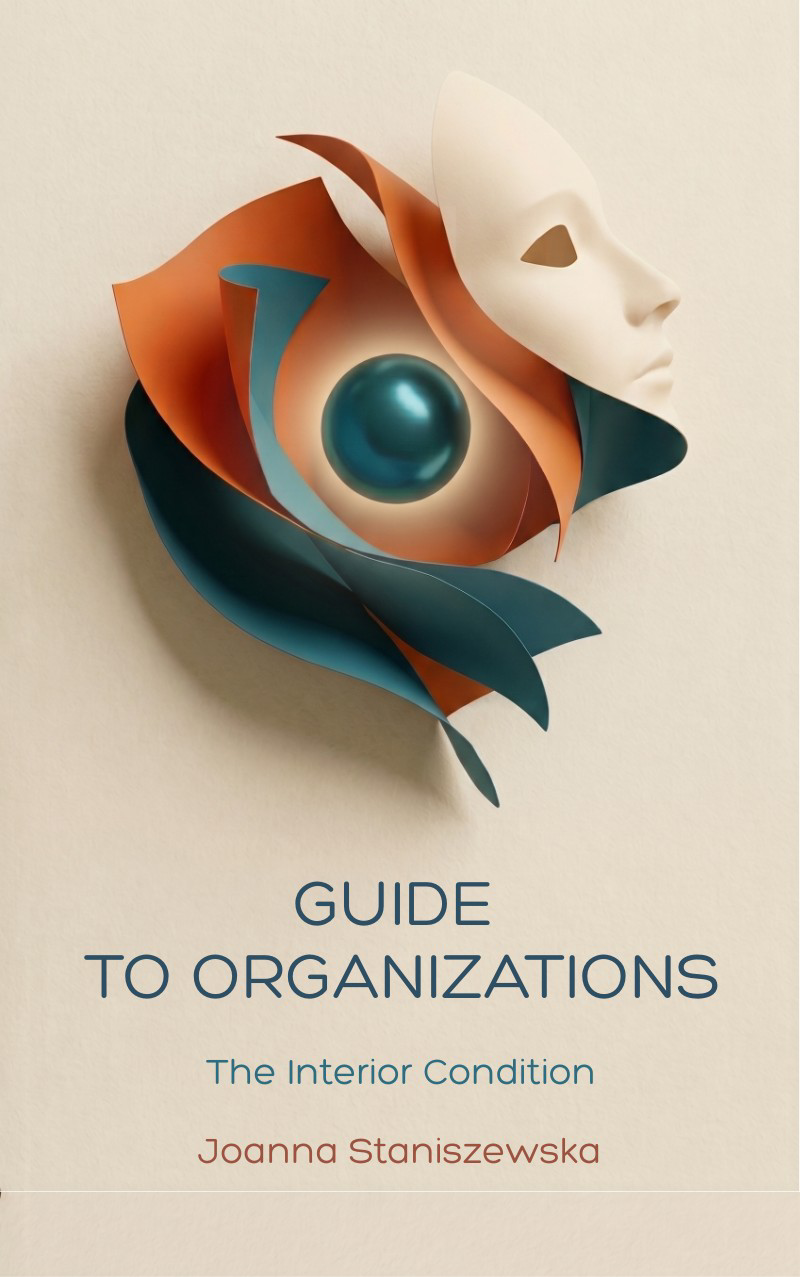
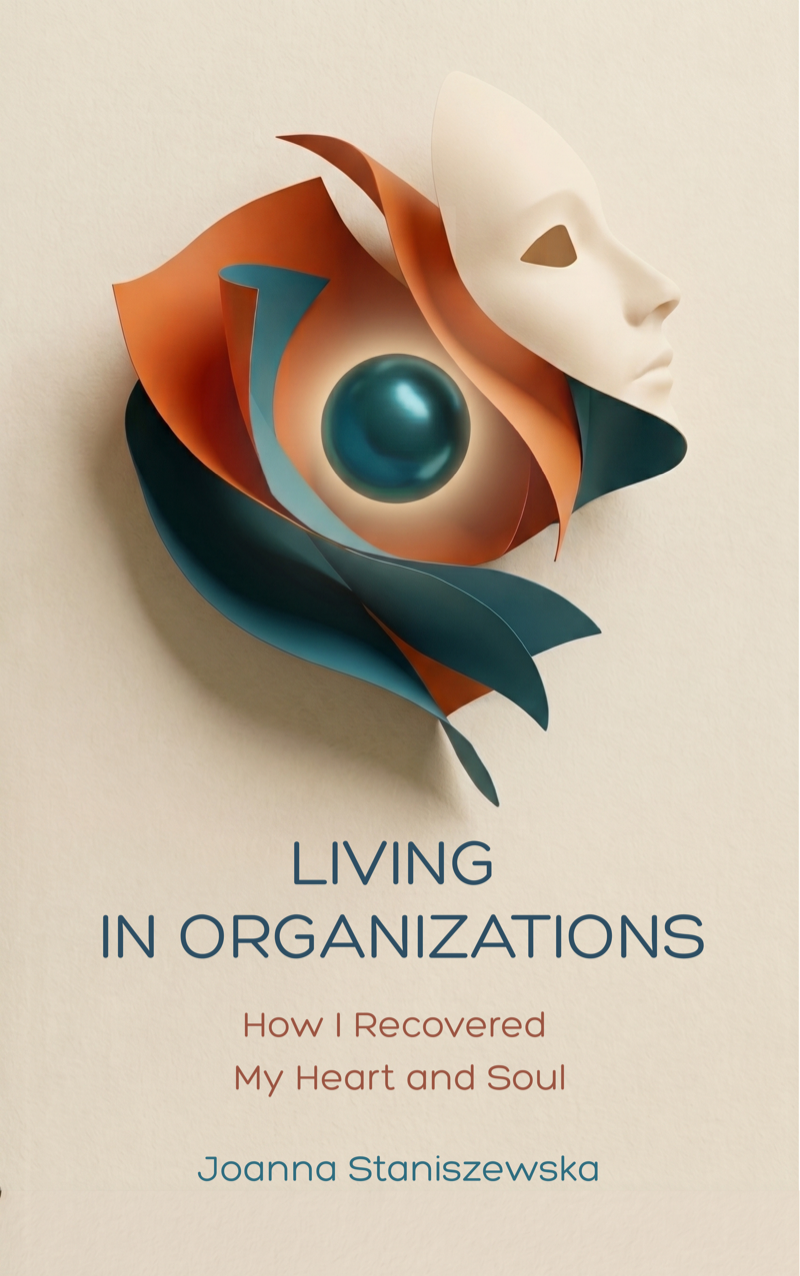
Retitle site to Living in Organizations + new cover
New title/subtitle across hero, book section, brand specimens.
Publisher "Guide to Organizations Press" linked to guidetoorganizations.pub.
Fix form redirect typo (guidestoorganizations -> guidetoorganizations).
New front cover image.

Changed region(s): [[0.125, 0.6418, 0.9062, 0.8558], [0.25, 0.8864, 0.75, 0.9475]]

diff --git a/index.html b/index.html
@@ -402,16 +402,17 @@
     <div class="book-inner">
 
       <div class="book-cover-wrapper">
-        <img src="book-cover.png" alt="Guide to Organizations — The Interior Condition" class="book-cover-img" />
+        <img src="book-cover.png" alt="Living in Organizations — How I Recovered My Heart and Soul" class="book-cover-img" />
       </div>
 
       <div class="book-content">
         <span class="badge-pill">Coming Soon</span>
 
         <h2 class="book-title">
-          <em>Guide<br>to Organizations</em>
+          <em>Living in<br>Organizations</em>
         </h2>
-        <p class="book-subtitle">The Interior Condition</p>
+        <p class="book-subtitle">How I Recovered My Heart and Soul</p>
+        <p class="book-publisher"><a href="https://guidetoorganizations.pub" target="_blank" rel="noopener">Guide to Organizations Press</a></p>
 
         <p class="book-desc">
           A map for leaders who want to understand what their organizations
@@ -473,7 +474,7 @@
     </div>
 
     <form action="https://formspree.io/f/xdennyqb" method="POST" class="contact-form">
-      <input type="hidden" name="_next" value="https://guidestoorganizations.pub/?sent=1" />
+      <input type="hidden" name="_next" value="https://guidetoorganizations.pub/?sent=1" />
       <div class="contact-form-row">
         <label for="cf-name">Name</label>
         <input type="text" id="cf-name" name="name" placeholder="Your name" required autocomplete="name" />

diff --git a/brand.html b/brand.html
@@ -633,11 +633,11 @@
 
         <div class="type-row">
           <span class="type-size-label">Display / 48px</span>
-          <span class="type-sample-serif" style="font-size: 3rem; font-weight: 300; line-height: 1.1; color: var(--text);">Guide to Organizations</span>
+          <span class="type-sample-serif" style="font-size: 3rem; font-weight: 300; line-height: 1.1; color: var(--text);">Living in Organizations</span>
         </div>
         <div class="type-row">
           <span class="type-size-label">H1 / 32px</span>
-          <span class="type-sample-serif" style="font-size: 2rem; font-weight: 300; color: var(--text);">The Interior Condition</span>
+          <span class="type-sample-serif" style="font-size: 2rem; font-weight: 300; color: var(--text);">How I Recovered My Heart and Soul</span>
         </div>
         <div class="type-row">
           <span class="type-size-label">H2 / 24px · italic</span>

diff --git a/style.css b/style.css
@@ -753,7 +753,25 @@ h1 {
   font-size: 1rem;
   font-style: italic;
   color: var(--rose);
+  margin-bottom: 0.4rem;
+}
+
+.book-publisher {
+  font-size: 0.72rem;
+  letter-spacing: 0.12em;
+  text-transform: uppercase;
   margin-bottom: 1.5rem;
+}
+
+.book-publisher a {
+  color: var(--text-muted);
+  text-decoration: none;
+  border-bottom: 1px solid var(--border);
+  transition: color 0.2s ease;
+}
+
+.book-publisher a:hover {
+  color: var(--rose);
 }
 
 .book-desc {
